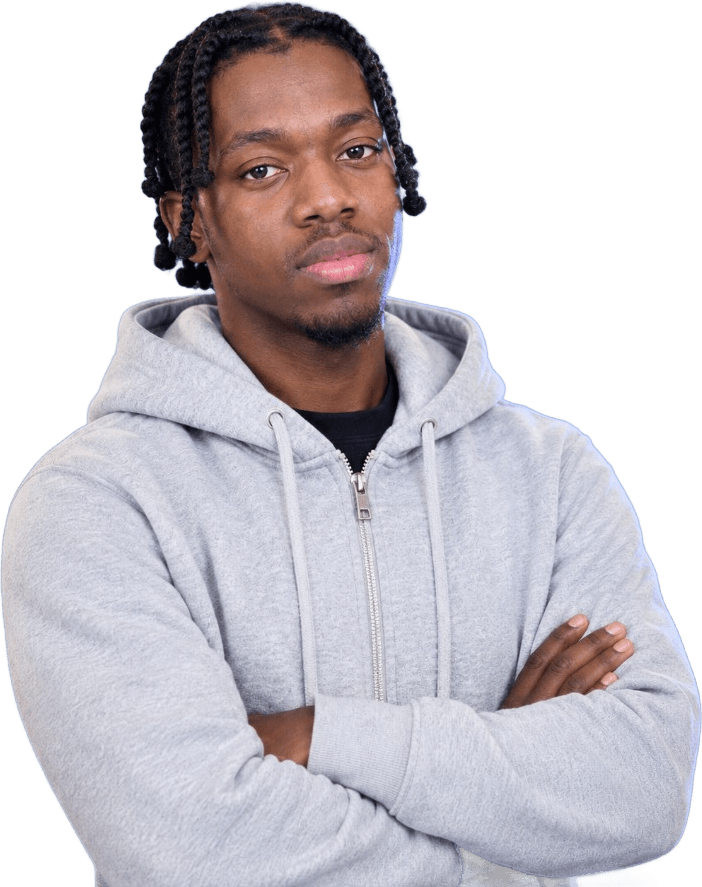
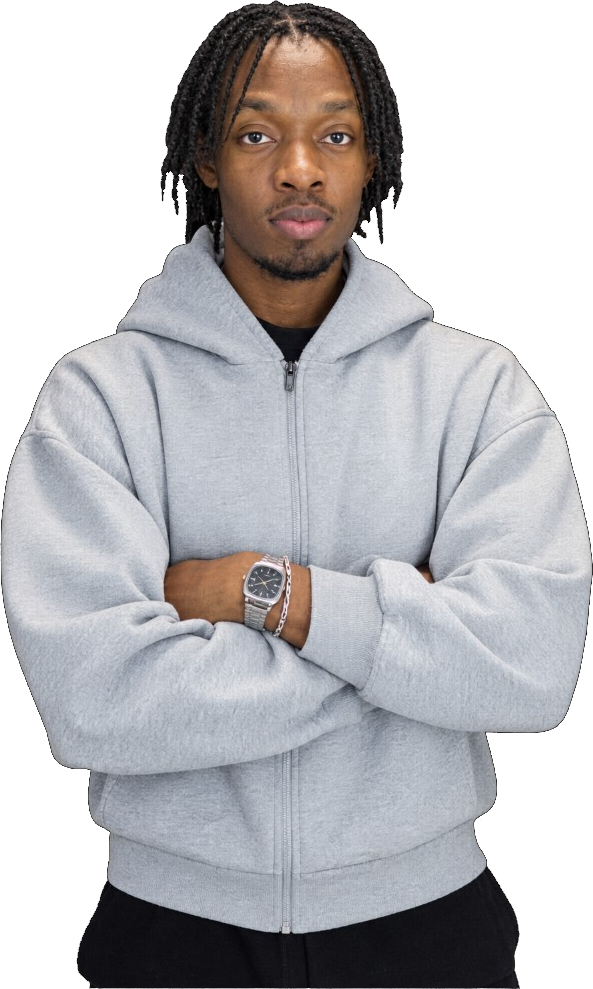
Pose le portrait de reservation au coin du formulaire, et clarifie A propos ainsi que la navigation sur telephone.

diff --git a/style.css b/style.css
@@ -1671,8 +1671,19 @@ body.dark .contact-wrap .contact-link-card--phone {
 }
 
 .contact-wrap .contact-form-actions {
+  position: relative;
+  z-index: 3;
+  display: grid;
+  grid-template-columns: 108px minmax(0, 1fr);
+  align-items: end;
+  column-gap: 12px;
   margin-top: 16px;
-  padding: 0 0 0 132px;
+  padding: 0;
+}
+
+.contact-wrap #contactSubmit,
+.contact-wrap #formStatus {
+  grid-column: 2;
 }
 
 .contact-wrap #contactSubmit {
@@ -1700,14 +1711,15 @@ body.dark .contact-wrap .contact-link-card--phone {
 
 .contact-wrap .contact-form > .contact-form__portrait {
   position: absolute;
-  z-index: 0;
-  left: -18px;
-  bottom: -36px;
-  width: 168px;
-  height: auto;
+  z-index: 2;
+  left: 0;
+  bottom: 0;
+  width: 118px;
+  height: 108px;
   margin: 0;
-  object-fit: contain;
-  object-position: left bottom;
+  object-fit: cover;
+  object-position: center top;
+  border-bottom-left-radius: 26px;
   pointer-events: none;
   user-select: none;
 }
@@ -5834,39 +5846,8 @@ html.js .reveal:not(.visible) {
 }
 
 @media (max-width: 1024px) {
-  html {
-    scroll-padding-top: 80px;
-  }
-
-  .header--hero,
-  .header--hero.header--scrolled {
-    position: fixed;
-    top: 0;
-    left: 0;
-    right: 0;
+  body.nav-open .header--hero {
     z-index: 200;
-  }
-
-  .hero-wrap {
-    padding-top: 73px;
-  }
-
-  .header--hero.header--scrolled {
-    background: color-mix(in srgb, var(--bg) 92%, transparent);
-    backdrop-filter: blur(16px);
-    -webkit-backdrop-filter: blur(16px);
-    border-bottom-color: var(--border);
-    box-shadow: 0 2px 12px var(--shadow);
-  }
-
-  .header--hero.header--scrolled .nav-burger {
-    color: var(--text);
-    border-color: var(--border);
-    background: color-mix(in srgb, var(--bg) 80%, transparent);
-  }
-
-  .header--hero.header--scrolled .nav-lang__btn.is-active {
-    color: #ffffff;
   }
 
   .nav {
@@ -6024,7 +6005,7 @@ html.js .reveal:not(.visible) {
   .hero-wrap {
     width: 100%;
     max-width: none;
-    padding: 73px 0 0;
+    padding: 0;
     border-radius: 0;
     min-height: 100svh;
   }
@@ -6086,13 +6067,16 @@ html.js .reveal:not(.visible) {
   }
 
   .contact-wrap .contact-form-actions {
-    padding: 0 0 0 96px;
+    grid-template-columns: 92px minmax(0, 1fr);
+    padding: 0;
   }
 
   .contact-wrap .contact-form > .contact-form__portrait {
-    width: 118px;
-    left: -14px;
-    bottom: -28px;
+    width: 96px;
+    height: 100px;
+    left: 0;
+    bottom: 0;
+    border-bottom-left-radius: 22px;
   }
 
   .contact-wrap .contact-title-secondary {
@@ -6296,7 +6280,7 @@ html.js .reveal:not(.visible) {
 
   .about-board {
     min-height: 0;
-    padding: 28px 20px 0;
+    padding: 28px 20px 18px;
     border-radius: 22px;
   }
 
@@ -6305,14 +6289,19 @@ html.js .reveal:not(.visible) {
     grid-template-columns: 1fr;
   }
 
+  .about-board__stage {
+    min-height: 0;
+    margin-top: 8px;
+  }
+
   .about-board__bars {
     gap: 12px;
     opacity: 0.7;
   }
 
   .about-portrait {
-    width: min(260px, 82%);
-    margin: 0 auto;
+    width: min(188px, 52%);
+    margin: 4px auto 0;
   }
 
   .about-board__stage,
@@ -6321,16 +6310,22 @@ html.js .reveal:not(.visible) {
   }
 
   .about-pillars {
+    display: grid;
+    grid-template-columns: 1fr 1fr;
+    align-items: stretch;
     width: 100%;
-    height: 260px;
-    min-height: 230px;
+    height: auto;
+    min-height: 0;
     gap: 10px;
+    margin-top: 14px;
   }
 
   .about-pillar {
+    height: auto;
     min-width: 0;
-    padding: 12px 10px 14px;
-    border-radius: 16px 16px 8px 8px;
+    min-height: 0;
+    padding: 14px 12px 16px;
+    border-radius: 16px;
   }
 
   .about-pillar strong {

diff --git a/index.html b/index.html
@@ -56,7 +56,7 @@
       rel="stylesheet"
       href="https://fonts.googleapis.com/css2?family=Caveat:wght@500;600&family=Quantico:wght@400;700&family=Source+Sans+3:wght@400;600;700&display=swap"
     />
-    <link rel="stylesheet" href="style.css?v=20260813-s148" />
+    <link rel="stylesheet" href="style.css?v=20260813-s154" />
   </head>
   <body data-page="home">
     <a class="skip-link" href="#main" data-i18n="skip">Aller au contenu</a>
@@ -1255,7 +1255,7 @@
           </div>
           <img
             class="contact-form__portrait"
-            src="assets/portrait-cutout.png?v=6"
+            src="assets/portrait-cutout.png?v=7"
             alt=""
             width="200"
             height="250"
@@ -1297,6 +1297,6 @@
     </dialog>
 
     <script src="i18n.js?v=20260813-s16" defer></script>
-    <script src="script.js?v=20260813-s70" defer></script>
+    <script src="script.js?v=20260813-s71" defer></script>
   </body>
 </html>

diff --git a/script.js b/script.js
@@ -10,7 +10,7 @@ const headerOffset = () => {
   if (!headerNav) {
     return 16;
   }
-  if (headerNav.classList.contains("header--hero") && window.innerWidth > 1024) {
+  if (headerNav.classList.contains("header--hero")) {
     return 16;
   }
   return headerNav.offsetHeight + 8;
